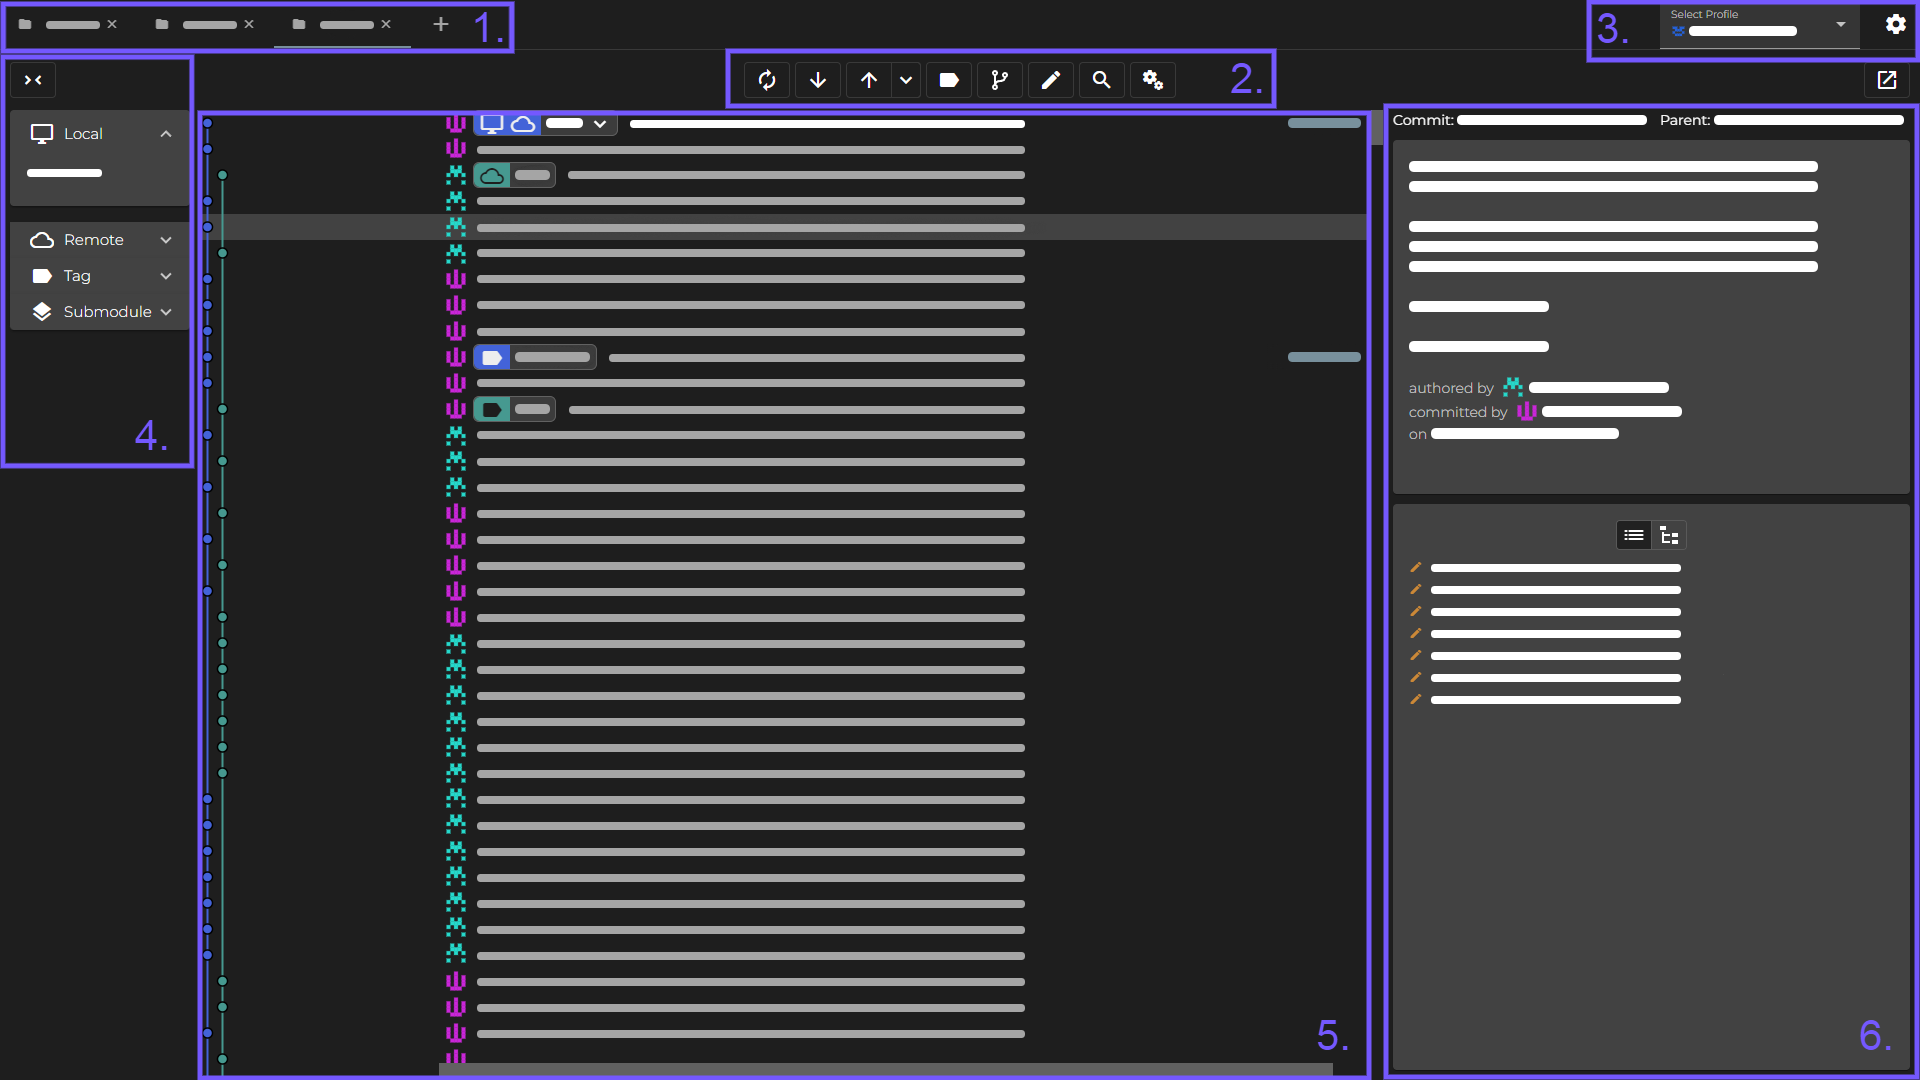
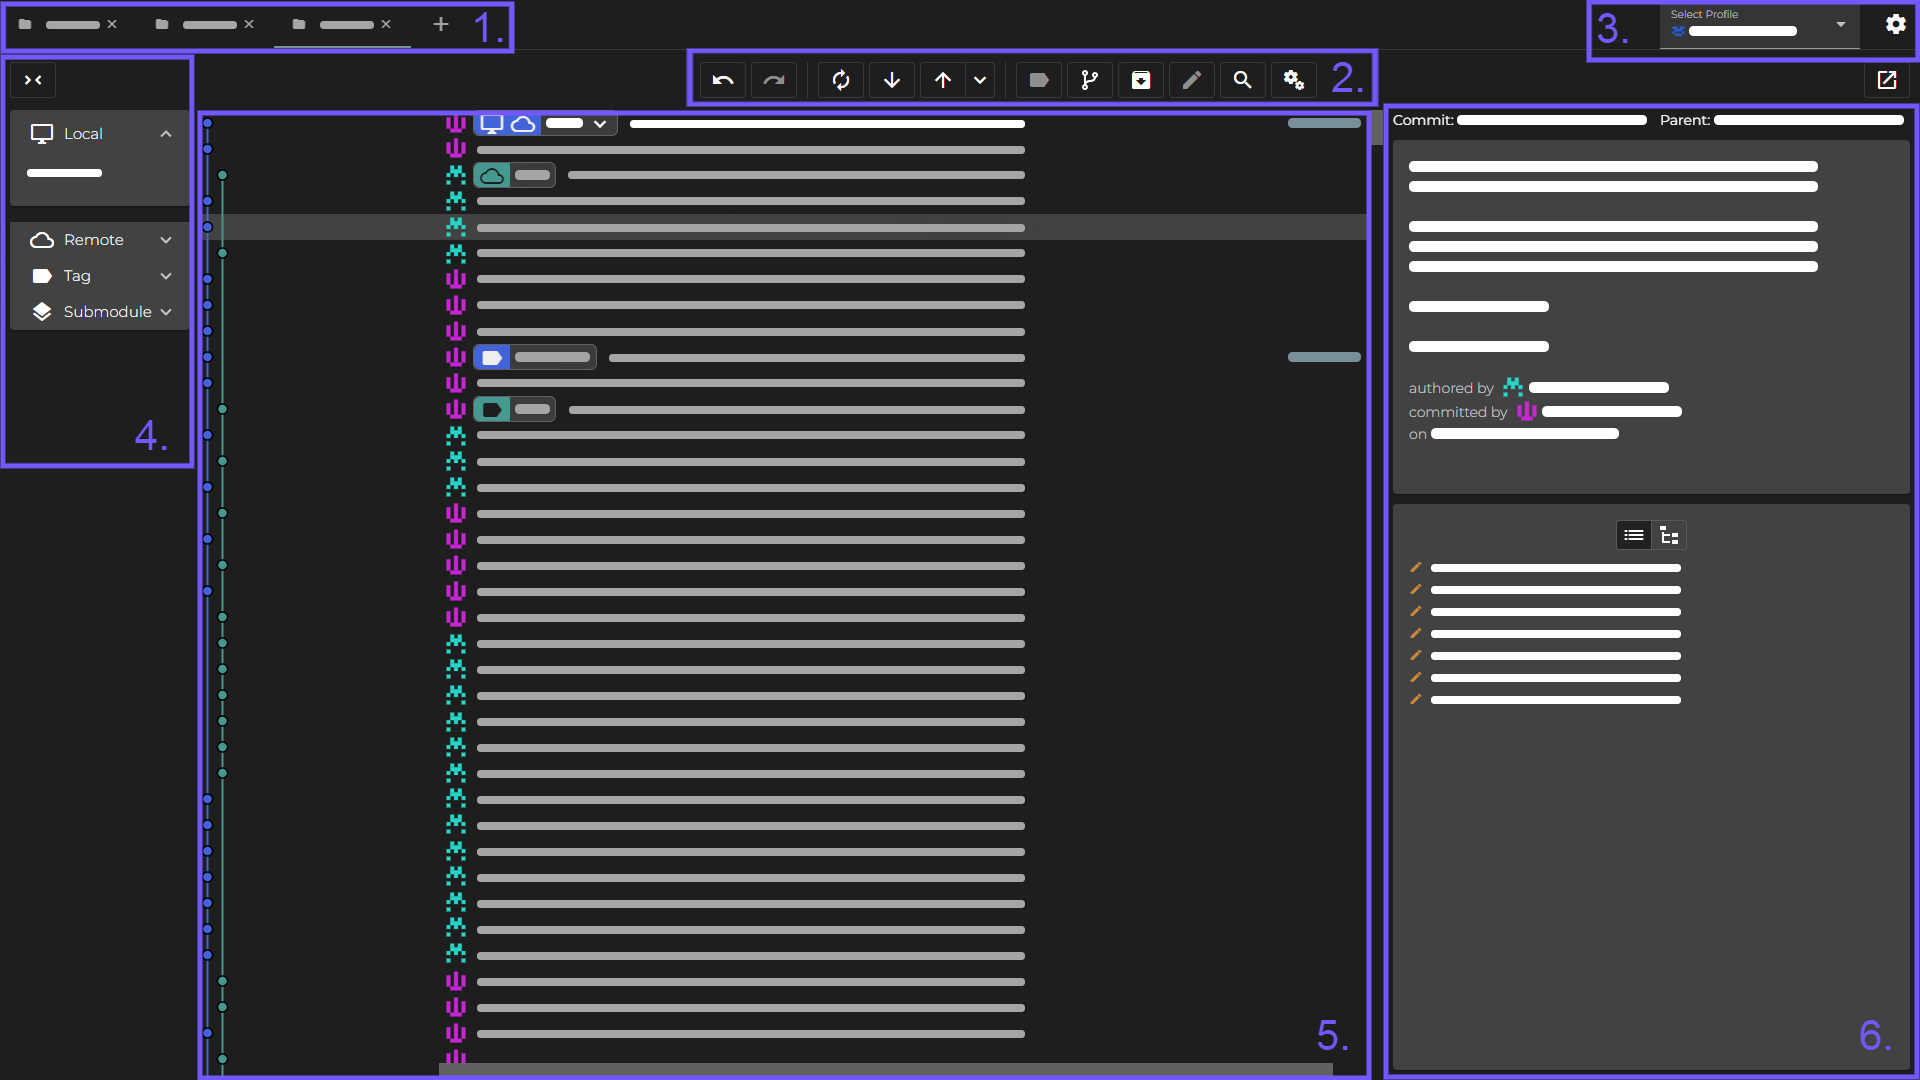
feat: update images and features list

Changed region(s): [[0.3438, 0.0306, 0.7188, 0.1222]]

diff --git a/src/app/features/features.component.html b/src/app/features/features.component.html
@@ -14,25 +14,21 @@
       <li class="item"><mat-icon>public</mat-icon>Work with public &amp; private repositories</li>
       <li class="item"><mat-icon>tab</mat-icon>Use up to two tabs simultaneously</li>
       <li class="item"><mat-icon>commit</mat-icon>Visual commit graph</li>
-      <li class="item"><mat-icon>difference</mat-icon>View diffs with full syntax highlighting</li>
-      <li class="item"><mat-icon>build</mat-icon>Resolve merge conflicts</li>
+      <li class="item"><mat-icon>difference</mat-icon>Diffs with full syntax highlighting</li>
+      <li class="item"><mat-icon>build</mat-icon>Built-in merge conflict editor</li>
       <li class="item"><mat-icon>layers</mat-icon>Work with submodules</li>
+      <li class="item"><mat-icon>compress</mat-icon>Squash commits</li>
       <li class="item"><mat-icon>edit</mat-icon>Rewrite commit history</li>
-      <li class="item"><mat-icon>search</mat-icon>Search files &amp; commits</li>
+      <li class="item"><mat-icon>search</mat-icon>Search across file changes &amp; commits</li>
       <li class="item"><mat-icon>visibility_off</mat-icon>Show/hide branches</li>
       <li class="item"><mat-icon>merge_type</mat-icon>Manage multiple merges simultaneously</li>
-      <li class="item"><mat-icon>key</mat-icon>Manage credentials</li>
-      <li class="item"><mat-icon>group</mat-icon>Quickly switch profiles</li>
       <li class="item"><mat-icon>dark_mode</mat-icon>Dark theme</li>
-      <li class="item"><mat-icon>compress</mat-icon>Squash commits</li>
-      <li class="item"><mat-icon>description</mat-icon>Blame files</li>
+      <li class="item"><mat-icon>group</mat-icon>Quickly switch profiles</li>
+      <li class="item"><mat-icon>key</mat-icon>Manage credentials</li>
+      <li class="item"><mat-icon>description</mat-icon>File history / blame</li>
+      <li class="item"><mat-icon>undo</mat-icon>Undo mistakes</li>
+      <li class="item"><mat-icon>archive</mat-icon>Stash changes</li>
       <!-- <li class="item">
-        <span>
-          <mat-icon>undo</mat-icon>
-          <del>Undo actions</del>
-        </span>
-      </li>
-      <li class="item">
         <span>
           <mat-icon>touch_app</mat-icon>
           <del>Drag &amp; Drop</del>
@@ -41,7 +37,13 @@
       <li class="item">
         <span>
           <mat-icon>verified</mat-icon>
-          <del>Commit signing</del>
+          <del>GPG commit signing</del>
+        </span>
+      </li>
+      <li class="item">
+        <span>
+          <mat-icon>image</mat-icon>
+          <del>Image diffs</del>
         </span>
       </li> -->
     </ul>

diff --git a/src/index.html b/src/index.html
@@ -46,6 +46,8 @@
   <!-- Google tag (gtag.js) -->
   <script async src="https://www.googletagmanager.com/gtag/js?id=G-CQVVEVKWNF"></script>
   <script>
+    if (window.location.hostname == 'localhost') window['ga-disable-G-CQVVEVKWNF'] = true;
+
     window.dataLayer = window.dataLayer || [];
     function gtag(){dataLayer.push(arguments);}
     gtag('js', new Date());

diff --git a/src/assets/docs/user_interface.md b/src/assets/docs/user_interface.md
@@ -13,7 +13,7 @@ Each repository opened in Glint has its own tab. The + button on the right can b
 
 The Action Bar allows you to perform commonly used Git actions on the repository.
 
-From left to right, these are: fetch, pull, push, create tag, create branch, edit/rebase, search, and finally view settings for the repository.
+From left to right, these are: undo, redo, fetch, pull, push, create tag, create branch, stash, edit/rebase, search, and finally view settings for the repository.
 
 ## 3. Profile Selector & Settings
 <img src="/assets/docs/ui-3.png" class="fit-image">
